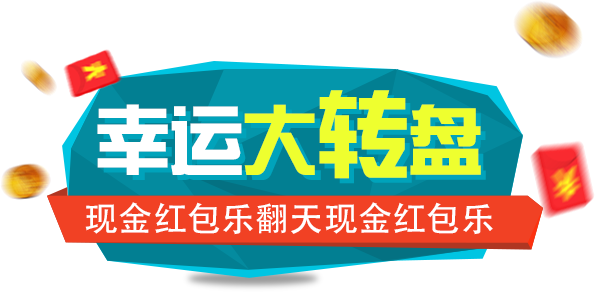
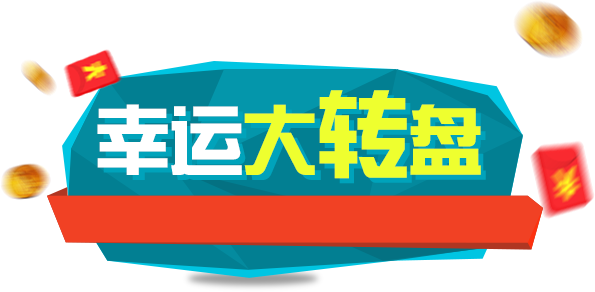
1.活动标题应该在“幸运大转盘”几个字下面显示

Changed region(s): [[0.121, 0.6781, 0.8471, 0.8014]]

diff --git a/weapp/termite/static/v4/css/app_widget.css b/weapp/termite/static/v4/css/app_widget.css
@@ -300,14 +300,13 @@
 	height: 140px;
 }
 .wui-surveyDescription>.wui-i-innerTitle {
-	background: #8d00ab none repeat scroll 0 0;
-	font-size: 24px;
-	font-weight: bold;
-	margin-left: 25%;
-	margin-top: 25px;
-	padding: 0 5px;
+	font-size: 20px;
+	font-weight: 400;
+	margin-top: -386px;
 	position: absolute;
 	color: white;
+	text-align: center;
+	width: 84%;
 }
 .wui-lotterydescription>.wui-i-header{
 	text-align: center;
